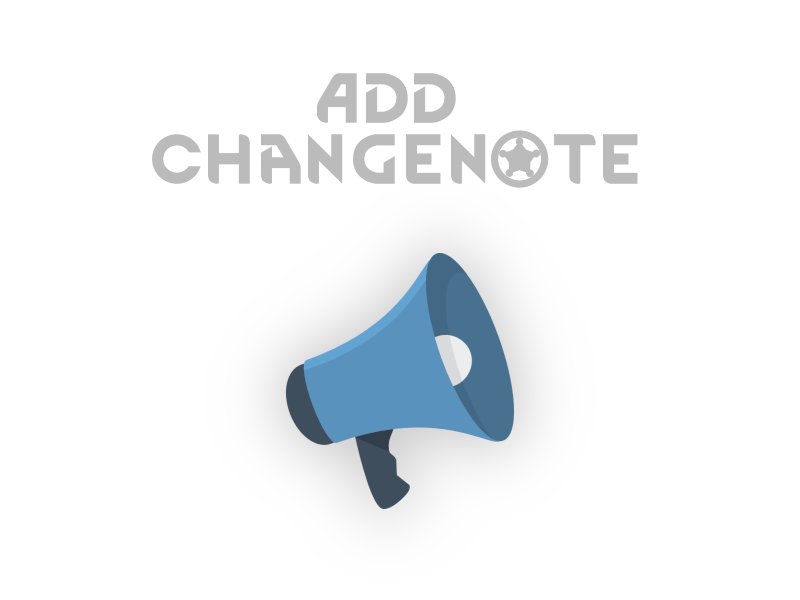
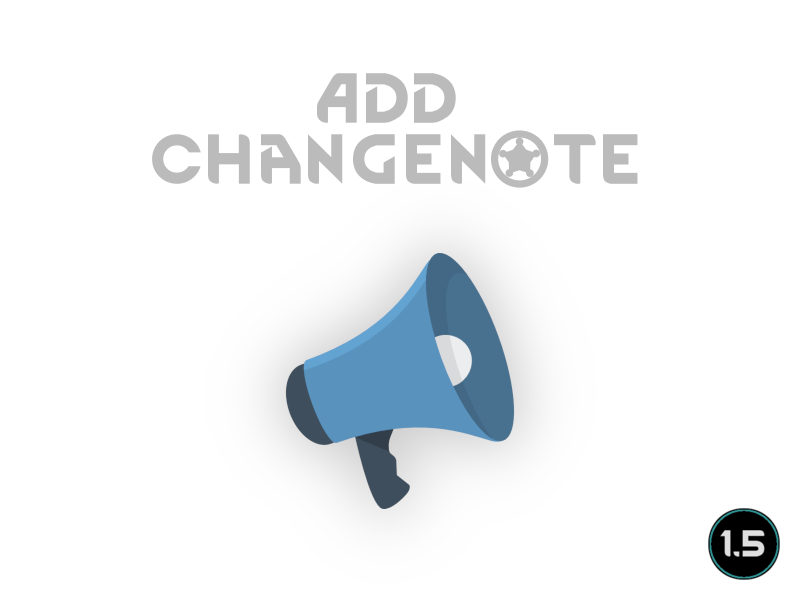
Mod updated for 1.5 and passed autotests

Changed region(s): [[0.875, 0.84, 1.0, 0.99]]

diff --git a/README.md b/README.md
@@ -1,6 +1,6 @@
 # AddChangenote
 
-![Image](https://i.imgur.com/buuPQel.png)
+![Image](https://i.imgur.com/iCj5o7O.png)
 
 
 Adds the possibility to add a changenote on publish/update of mod to the workshop instead of the autogenerated text.
@@ -19,24 +19,26 @@ Current version is fetched from the Manifest-file in the same directory (used by
 
 --- End of file ---
 
-![Image](https://i.imgur.com/O0IIlYj.png)
+![Image](https://i.imgur.com/Ds0rBAD.png)
 
 Since modding is just a hobby for me I expect no donations to keep modding. If you still want to show your support you can gift me anything from my https://store.steampowered.com/wishlist/id/Mlie]Wishlist or buy me a cup of tea.
 
-https://ko-fi.com/G2G55DDYD]![Image](https://i.imgur.com/Utx6OIH.png)
+https://ko-fi.com/G2G55DDYD]![Image](https://i.imgur.com/VWG0yff.png)
 
 
-![Image](https://i.imgur.com/PwoNOj4.png)
+![Image](https://i.imgur.com/5xwDG6H.png)
 
 
 
 -  See if the the error persists if you just have this mod and its requirements active.
 -  If not, try adding your other mods until it happens again.
--  Post your error-log using https://steamcommunity.com/workshop/filedetails/?id=818773962]HugsLib and command Ctrl+F12
+-  Post your error-log using https://steamcommunity.com/workshop/filedetails/?id=818773962]HugsLib or the standalone https://steamcommunity.com/sharedfiles/filedetails/?id=2873415404]Uploader and command Ctrl+F12
 -  For best support, please use the Discord-channel for error-reporting.
 -  Do not report errors by making a discussion-thread, I get no notification of that.
 -  If you have the solution for a problem, please post it to the GitHub repository.
+-  Use https://github.com/RimSort/RimSort/releases/latest]RimSort to sort your mods
 
 
 
+https://steamcommunity.com/sharedfiles/filedetails/changelog/2161604688]![Image](https://img.shields.io/github/v/release/emipa606/AddChangenote?label=latest%20version&style=plastic&labelColor=0070cd&color=white)
 
